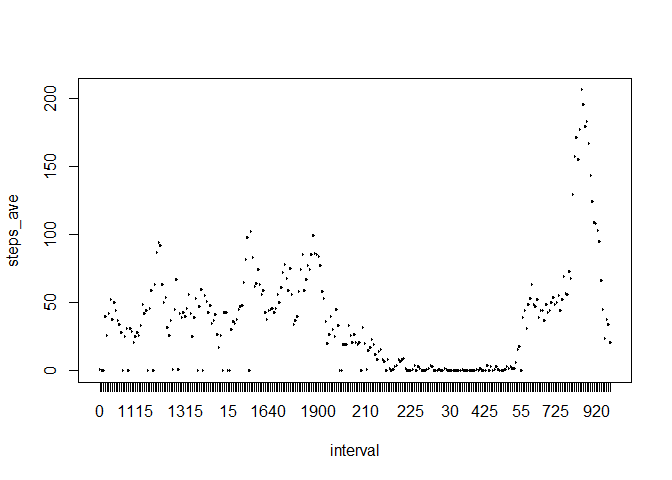
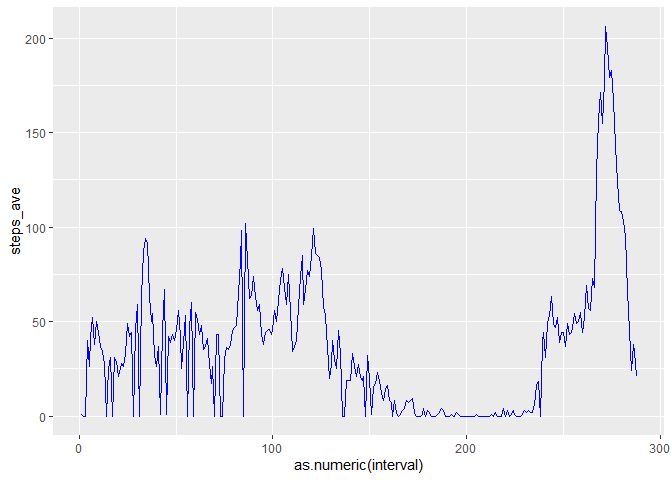
Add files via upload

diff --git a/PA1_template.html b/PA1_template.html
@@ -374,7 +374,8 @@ dat &lt;- read.csv(&quot;activity Dataset/activity.csv&quot;,header = TRUE)</cod
 </div>
 <div id="what-is-mean-total-number-of-steps-taken-per-day" class="section level2">
 <h2>What is mean total number of steps taken per day?</h2>
-<pre class="r"><code>date &lt;- character()
+<pre class="r"><code>library(ggplot2)
+date &lt;- character()
 steps_sum &lt;- integer()
 count &lt;- 288
 for (i in 0:60) {
@@ -382,8 +383,9 @@ for (i in 0:60) {
     steps_sum[i+1] &lt;- sum(dat$steps[(i*count + 1):(i*count + 288)], na.rm = TRUE)
 }
 dat1 &lt;- data.frame(date = date, steps_sum = steps_sum)
-hist(dat1$steps_sum, xlab = &quot; total number of steps taken per day&quot;, main = NA)</code></pre>
[1 lines of base64/hex data omitted]
+ggplot(dat1, aes(x = steps_sum)) + geom_histogram() + labs(x = &quot; total number of steps taken per day&quot;)</code></pre>
+<pre><code>## `stat_bin()` using `bins = 30`. Pick better value with `binwidth`.</code></pre>
[1 lines of base64/hex data omitted]
 <pre class="r"><code>summary(dat1$steps_sum)</code></pre>
 <pre><code>##    Min. 1st Qu.  Median    Mean 3rd Qu.    Max. 
 ##       0    6778   10395    9354   12811   21194</code></pre>
@@ -406,8 +408,8 @@ for (i in 1:length(unique(dat$interval))) {
     steps_ave[i] &lt;- as.integer(mean(filter(dat, dat$interval == unique(dat$interval)[i])[,1], na.rm = TRUE))
 }
 dat2 &lt;- data.frame(interval = interval, steps_ave = steps_ave)
-plot(steps_ave ~ interval, data = dat2, type = &quot;l&quot;)</code></pre>
[1 lines of base64/hex data omitted]
+ggplot(dat2, aes(x = as.numeric(interval), y = steps_ave)) + geom_line(col = &quot;blue&quot;)</code></pre>
[1 lines of base64/hex data omitted]
 <p>On average across all the days in the dataset, interval at 835 contains the maximum number of steps</p>
 </div>
 <div id="imputing-missing-values" class="section level2">

diff --git a/PA1_template.md b/PA1_template.md
@@ -18,6 +18,7 @@ dat <- read.csv("activity Dataset/activity.csv",header = TRUE)
 ## What is mean total number of steps taken per day?
 
 ```r
+library(ggplot2)
 date <- character()
 steps_sum <- integer()
 count <- 288
@@ -26,7 +27,11 @@ for (i in 0:60) {
     steps_sum[i+1] <- sum(dat$steps[(i*count + 1):(i*count + 288)], na.rm = TRUE)
 }
 dat1 <- data.frame(date = date, steps_sum = steps_sum)
-hist(dat1$steps_sum, xlab = " total number of steps taken per day", main = NA)
+ggplot(dat1, aes(x = steps_sum)) + geom_histogram() + labs(x = " total number of steps taken per day")
+```
+
+```
+## `stat_bin()` using `bins = 30`. Pick better value with `binwidth`.
 ```
 
 ![](PA1_template_files/figure-html/Q1-1.png)<!-- -->
@@ -71,7 +76,7 @@ for (i in 1:length(unique(dat$interval))) {
     steps_ave[i] <- as.integer(mean(filter(dat, dat$interval == unique(dat$interval)[i])[,1], na.rm = TRUE))
 }
 dat2 <- data.frame(interval = interval, steps_ave = steps_ave)
-plot(steps_ave ~ interval, data = dat2, type = "l")
+ggplot(dat2, aes(x = as.numeric(interval), y = steps_ave)) + geom_line(col = "blue")
 ```
 
 ![](PA1_template_files/figure-html/Q2-1.png)<!-- -->
